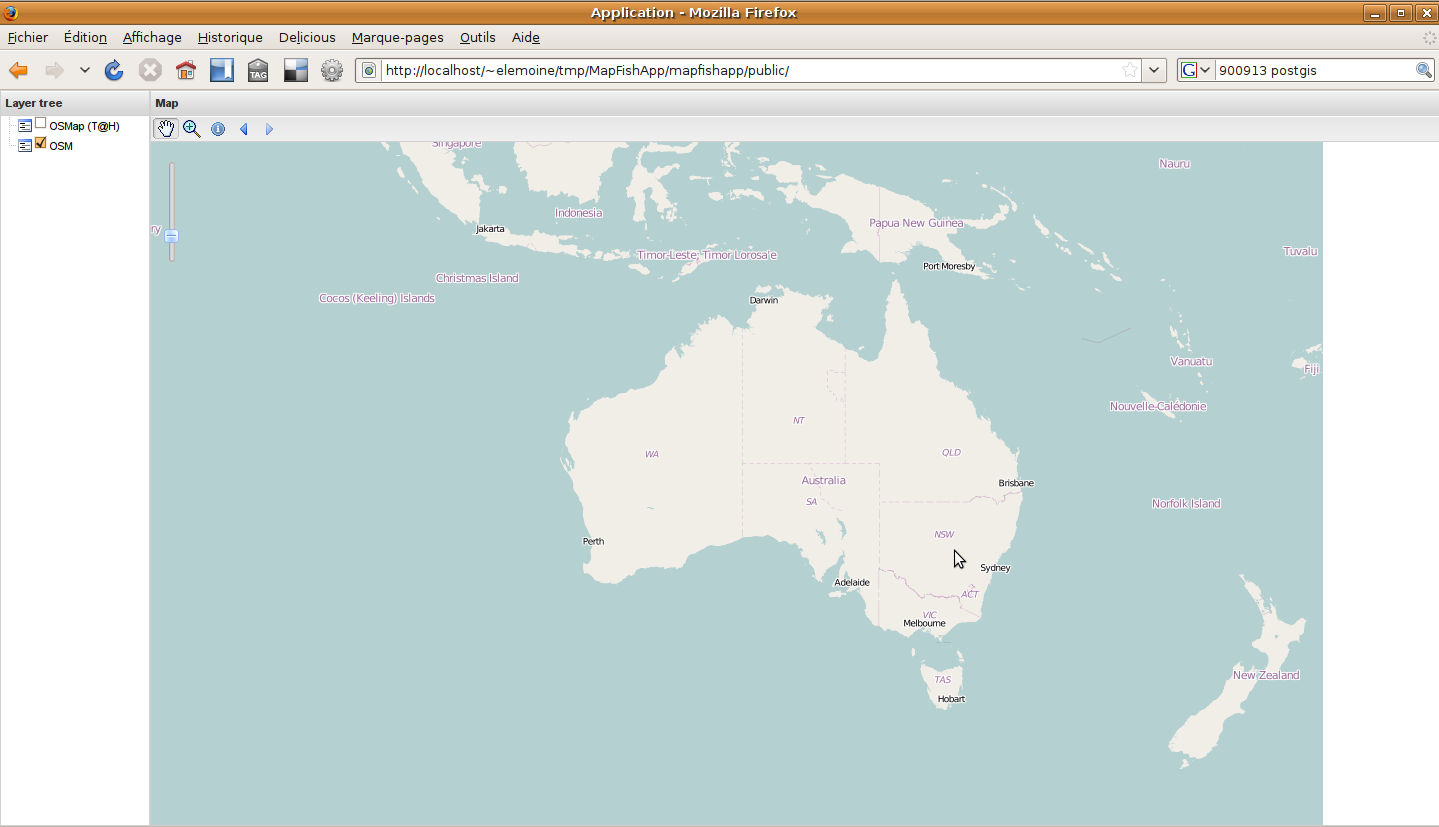
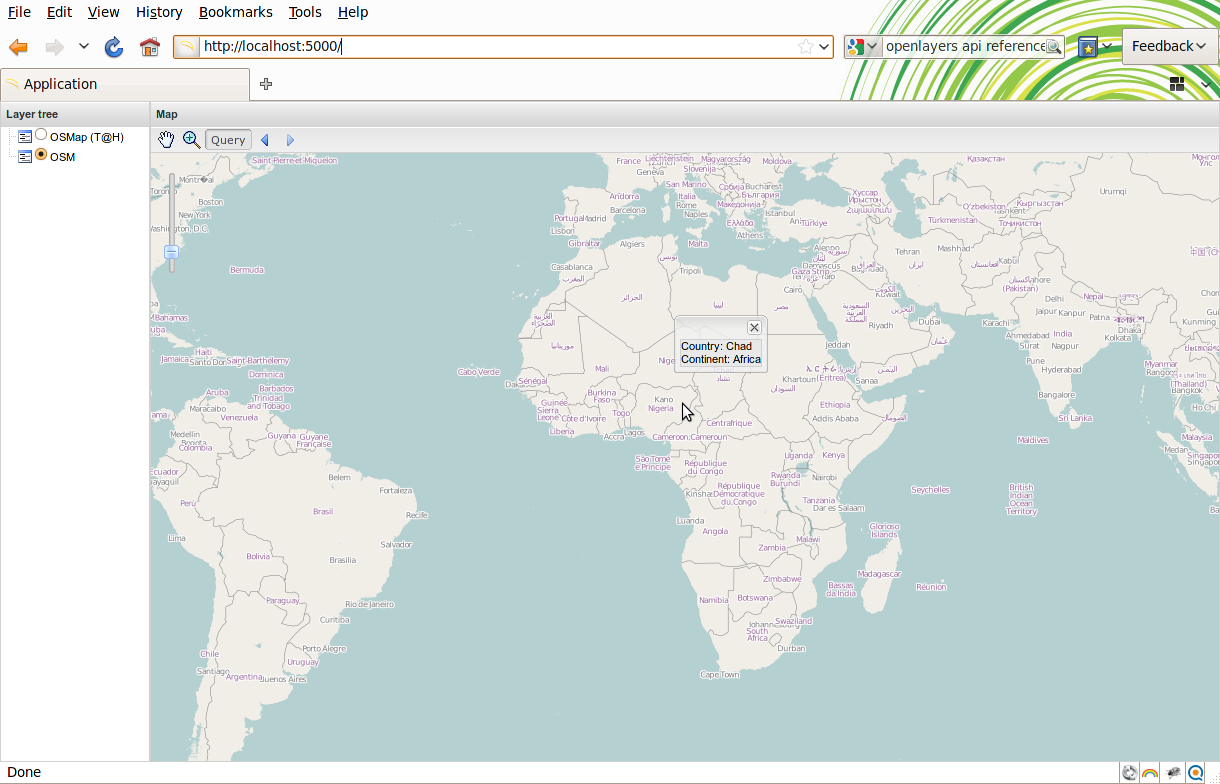
fix quickstart, no functional change
git-svn-id: http://svn.mapfish.org/svn/mapfish/framework/server/trunk@3635 25cca10d-0837-0410-9e4f-92b931fda1bc

diff --git a/docs/_static/layout.js b/docs/_static/layout.js
@@ -4,20 +4,25 @@
  * @include OpenLayers/Projection.js
  * @include OpenLayers/Layer/XYZ.js
  * @include OpenLayers/Tile/Image.js
+ * @include OpenLayers/Protocol/HTTP.js
+ * @include OpenLayers/Request/XMLHttpRequest.js
  * @include OpenLayers/Control/Navigation.js
  * @include OpenLayers/Control/ZoomBox.js
  * @include OpenLayers/Control/NavigationHistory.js
+ * @include OpenLayers/Control/GetFeature.js
+ * @include OpenLayers/Format/GeoJSON.js
  * @include GeoExt/data/LayerStore.js
  * @include GeoExt/widgets/MapPanel.js
  * @include GeoExt/widgets/Action.js
  * @include GeoExt/widgets/ZoomSlider.js
  * @include GeoExt/widgets/tips/ZoomSliderTip.js
  * @include GeoExt/widgets/tree/LayerContainer.js
+ * @include GeoExt/widgets/Popup.js
  */
 
-Ext.namespace("mapfishapp");
+Ext.namespace("App");
 
-mapfishapp.layout = (function() {
+App.layout = (function() {
     /*
      * Private
      */
@@ -39,6 +44,7 @@ mapfishapp.layout = (function() {
             maxExtent: new OpenLayers.Bounds(-20037508, -20037508,
                                              20037508, 20037508.34),
             allOverlays: false,
+            theme: null,
             controls: []
         });
     };
@@ -108,20 +114,42 @@ mapfishapp.layout = (function() {
             })
         }));
         actions.push(new GeoExt.Action({
-            iconCls: "info",
+            text: "Query",
             map: map,
             toggleGroup: "tools",
             allowDepress: false,
-            tooltip: "Query",
-            control: new mapfish.Searcher.Map({
-                url: "countries",
-                protocol: {
+            control: new OpenLayers.Control.GetFeature({
+                protocol: new OpenLayers.Protocol.HTTP({
+                    url: "countries",
                     params: {
                         epsg: "900913",
                         attrs: "pays,continent"
+                    },
+                    format: new OpenLayers.Format.GeoJSON()
+                }),
+                eventListeners: {
+                    featureselected: function(e) {
+                        var f = e.feature;
+                        var html = "<p>Country: "+f.attributes.pays+"</p>" +
+                            "<p>Continent: "+f.attributes.continent+"</p>";
+                        f.geometry.transform(
+                            map.displayProjection, map.projection);
+                        if (!this._popup) {
+                            this._popup = new GeoExt.Popup({
+                                html: html,
+                                map: map,
+                                closeAction: 'hide',
+                                unpinnable: false
+                            });
+                        }
+                        else {
+                            this._popup.body.update(html);
+                            this._popup.doLayout();
+                        }
+                        this._popup.feature = f;
+                        this._popup.show();
                     }
-                },
-                displayDefaultPopup: true
+                }
             })
         }));
         var ctrl = new OpenLayers.Control.NavigationHistory();
@@ -151,7 +179,6 @@ mapfishapp.layout = (function() {
          * Initialize the page layout.
          */
         init: function() {
-            Ext.QuickTips.init();
 
             var map = createMap();
             var layers = createLayers();
@@ -186,6 +213,9 @@ mapfishapp.layout = (function() {
                     region: "west",
                     width: 150,
                     xtype: "treepanel",
+                    loader: new Ext.tree.TreeLoader({
+                        applyLoader: false
+                    }),
                     root: {
                         nodeType: "gx_layercontainer",
                         layerStore: layerStore,
